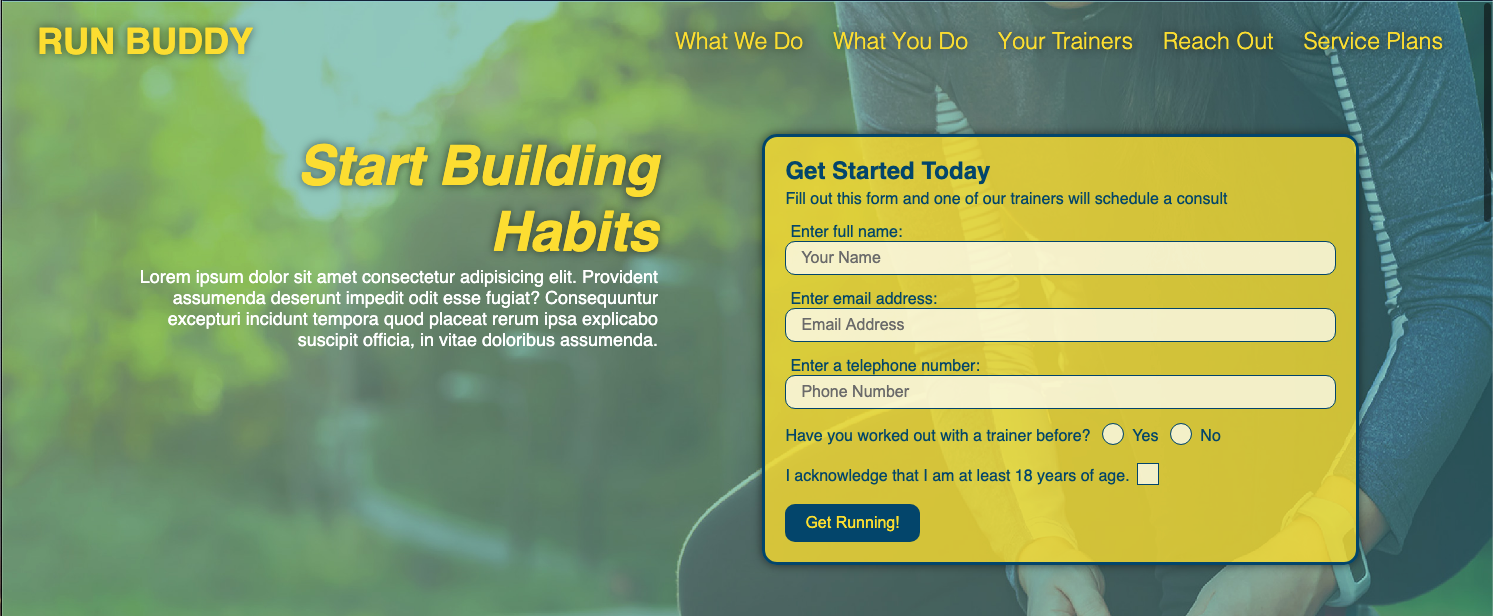
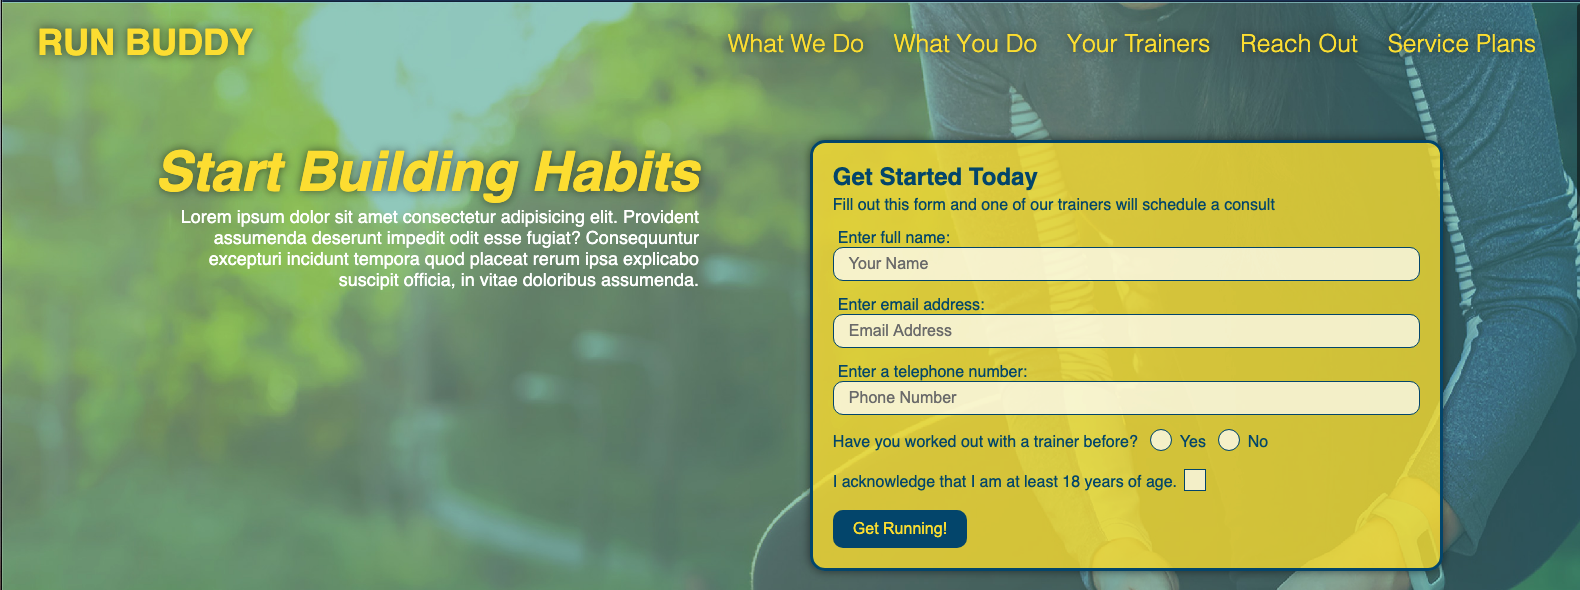
add mediaqueries

diff --git a/index.html b/index.html
@@ -15,7 +15,7 @@
         <nav>
             <ul>
                 <li>
-                    <a href="./projects.html">Projects</a>
+                    <a href="#projects">Projects</a>
                 </li>
                 <li>
                     <a href="#aboutme">About Me</a>
@@ -24,7 +24,7 @@
                     <a href="#contact">Contact</a>
                 </li>
                 <li>
-                    <a href="./design.html">Fun Hikes</a>
+                    <a href="./funhikes.html">Fun Hikes</a>
                 </li>
                 <li>
                     <a href="./blog.html">Blog</a>
@@ -34,32 +34,7 @@
     </header>
     <section class="hero">
     </section>
-    <section id="aboutme" class="about">
-        <div class="about-container">
-            <h2>
-                About Me
-            </h2>
-            <div class="paragraph p1">
-                <p>
-                    <a>Professionally: </a>I am an engineer and a developer, and I look to keep life interesting through learning and
-                    exploring. I strive to push myself and those around me to achieve more and to grow as we do. I look to leave projects better than I found them and to perform at the highest standard possible.<br/>
-                    I love creative and collaborative environments but can also put my head down and get work done on my own when it is time to do so. Problem solving is where I excel and I look to simplify any and all problems so they can be easily handled when the future calls for it. 
-                </p>
-                <div class="about-img1">
-                    <img src="./assets/images/zackaryanderson.jpg" alt="Zack Anderson" />
-                </div>
-            </div>
-            <div class="paragraph p2">
-                <div class="about-img2">
-                    <img src="./assets/images/zackclimbing.jpeg" alt="Zack climbing the North Face" />
-                </div>
-                <p>
-                    <a>Leisurely: </a>My passion is the outdoors. Whether it is hiking, biking, skiing, or climbing; I can not get enough of it. Being able to spend time with company in the outdoors is incomperable to anything else in life. Good people make great experiences even better.
-                </p>
-            </div>
-        </div>
-    </section>
-    <section class="projects">
+    <section class="projects" id="projects">
         <h2 class="section-title">
             Projects
         </h2>
@@ -89,6 +64,30 @@
                 <div class="bottom-right"><a href="" target="_blank">Project 6</a></div>
             </li>
         </ul>
+    </section>
+    <section id="aboutme" class="about">
+        <div class="about-container">
+            <h2>
+                About Me
+            </h2>
+            <div class="paragraph p1">
+                <p>
+                    <a>Professionally: </a>I am an engineer and a developer, and I look to keep life interesting through learning and
+                    exploring. I strive to push myself and those around me to achieve more and to grow as we do. I look to leave projects better than I found them and to perform at the highest standard possible.
+                </p>
+                <div class="about-img1">
+                    <img src="./assets/images/zackaryanderson.jpg" alt="Zack Anderson" />
+                </div>
+            </div>
+            <div class="paragraph p2">
+                <div class="about-img2">
+                    <img src="./assets/images/zackclimbing.jpeg" alt="Zack climbing the North Face" />
+                </div>
+                <p>
+                    <a>Privately: </a>My passion is the outdoors. While my preference is skiing, I am not particular about how I enjoy the outdoors.
+                </p>
+            </div>
+        </div>
     </section>
     <footer>
         <h2 id="contact" class="section-title">

diff --git a/assets/css/style.css b/assets/css/style.css
@@ -35,13 +35,14 @@ header{
     padding: 10px 0 0 0;
     display: flex;
     justify-content: space-between;
-    background-image: url("../images/header.jpeg");
+    /* background-image: url("../images/header.jpeg");
     background-size: cover;
     background-position: center;
-    background-attachment: fixed;
+    background-attachment: fixed; */
     z-index: 9999;
     position: sticky;
     top: 0;
+    background-color: white;
 }
 
 header a{
@@ -68,7 +69,8 @@ header nav ul li a:hover{
 address{
     font-weight: lighter;
     line-height: 1.3;
-    padding: 5px 10px;
+    padding: 0 10px;
+    margin-bottom: 30px;
 }
 
 address a{
@@ -77,22 +79,28 @@ address a{
 }
 
 /* style hero */ 
-/* .hero{
-    /* background-image: url("../images/header.jpeg");
-    height: 300px;
-    /* background-size: cover;
+.hero{
+    background-image: url("../images/header.jpeg");
+    background-size: cover;
     background-position: center;
-    background-position: center; 
-} */
+    display:flex;
+    justify-content: center;
+    flex-wrap: wrap;
+    align-items: center;
+    background-attachment: fixed;
+    background-position: 80%;
+    padding: 0;
+}
 
 /* general styling */
 .section-title{
     margin: 10px auto 10px auto;
-    border-bottom: 2px solid #0f77ac;
-    color: #0f77ac;
+    border-bottom: 2px solid black;
+    color: black;
     width: 50%;
     text-align: center;
     font-size: 40px;
+    font-weight: lighter;
 }
 
 /* style bio */
@@ -106,19 +114,20 @@ address a{
     align-items: center;
     background-attachment: fixed;
     background-position: 80%;
-    padding: 20px 0;
+    padding: 0 0 20px 0;
 }
 .about h2{
     margin: 10px auto 10px auto;
-    border-bottom: 2px solid #0f77ac;
-    color: #0f77ac;
+    border-bottom: 2px solid black;
+    color: black;
     width: 50%;
     text-align: center;
     font-size: 40px;
+    font-weight: lighter;
 }
 .about img{
-    width: 100%;
-    min-height: 100px;
+    width: auto;
+    max-height: 30vh;
     display: flex;
     padding: 15px;
     align-items: flex-end;
@@ -130,7 +139,7 @@ address a{
     display: flex;
     align-content: center;
     margin: 15px auto;
-    background-color: rgba(127,127,127,0.7);
+    background-color: rgba(127,127,127,0.8);
     border-radius: 10px;
 }
 .about p{
@@ -152,21 +161,23 @@ address a{
 .projects ul{
     display: flex;
     flex-wrap: wrap;
-    margin: 20px;
+    margin: 15px 60px 60px 60px;
     list-style: none;
 }
 .projects li{
-    height: 40vh;
+    height: 30vh;
     flex-grow: 1;
     position: relative;
     flex: 1 40%;
 }
 .projects img{
-    max-height: 100%;
-    min-width: 100%;
+    height: 100%;
+    width: 100%;
     object-fit: cover;
     vertical-align: bottom;
-    display: inline-block;
+    display: flex;
+
+
 }
 .projects .important{
     flex: 1 60%;
@@ -186,17 +197,40 @@ address a{
     content: "";
     height: 100%;
     width: 100%;
-    background: linear-gradient(to bottom right,rgba(0,0,0,0),rgba(0,0,0,0),rgba(255,255,255,1));
+    background: linear-gradient(to bottom right,rgba(0,0,0,0),rgba(0,0,0,0),rgba(255,255,255,0.5),rgba(255,255,255,1));
     position: absolute;
     top: 0;
     left: 0;
     transition: 0.5s;
 }
 .projects a{
-    font-size: 20px;
+    font-size: 30px;
     color: black;
     text-decoration: none;
     position: relative;
     z-index: 1;
+    font-weight: bold;
+    font-style: italic;
+}
+
+/* media queries */
+@media screen and (max-width: 980px){
+    .projects a{
+        font-size: 20px;
+    }
+    .about img{
+        height: 20vh;
+    }
+}
+@media screen and (max-width: 575px){
+    .about img{
+        height: 15vh;
+    }
+    .about-img2{
+        opacity: 0;
+    }
+    .projects a{
+        font-size: 60px;
+    }
 }
 
